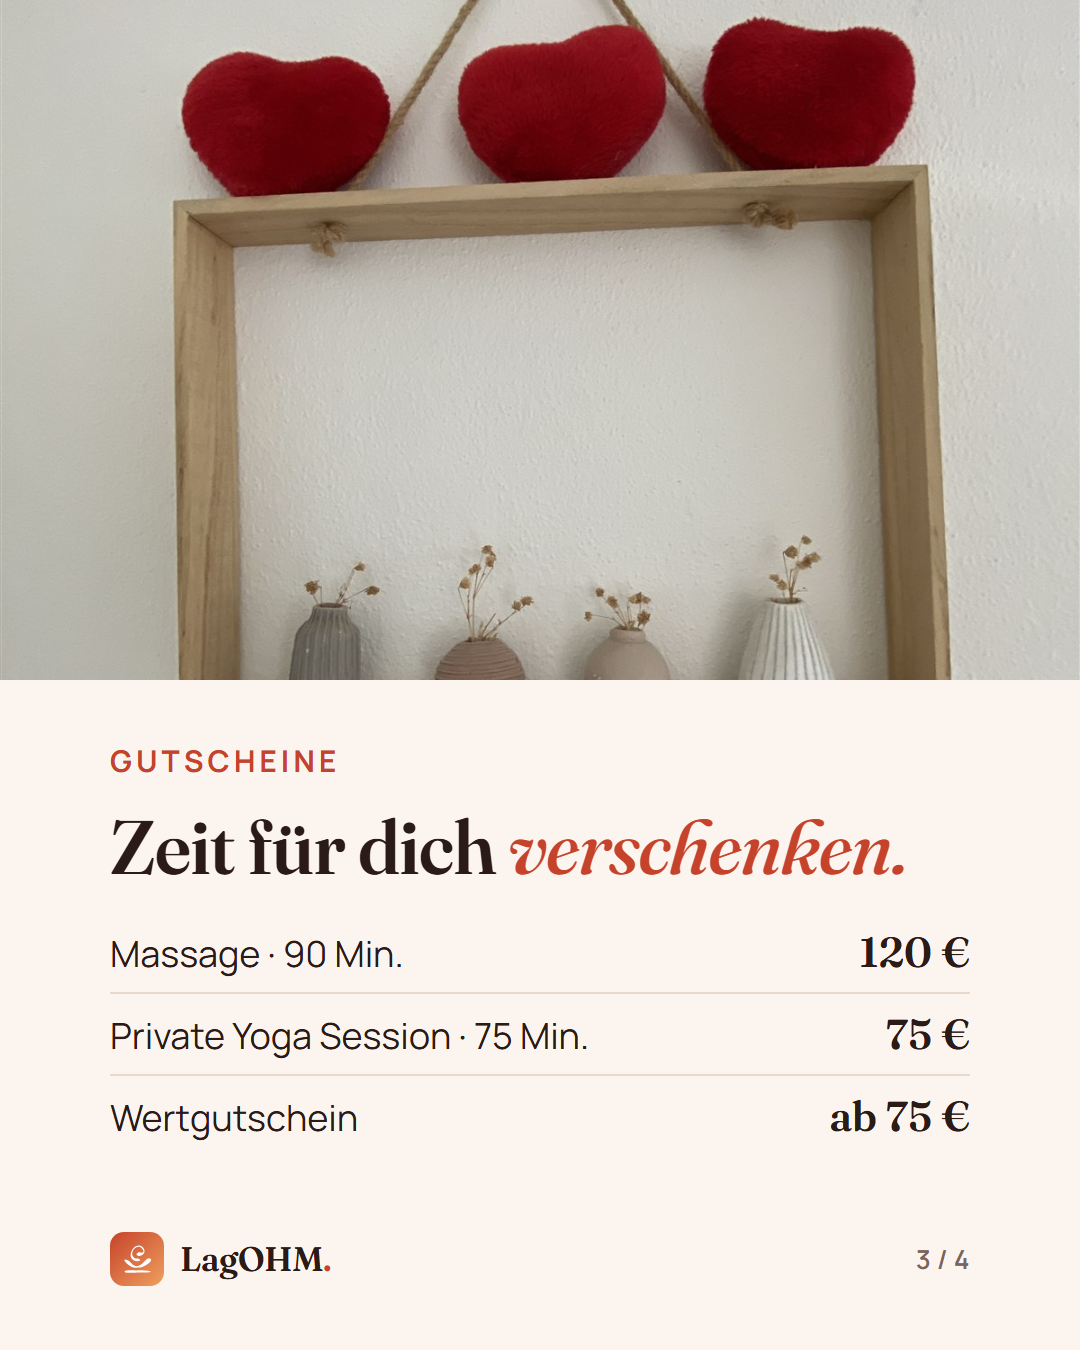
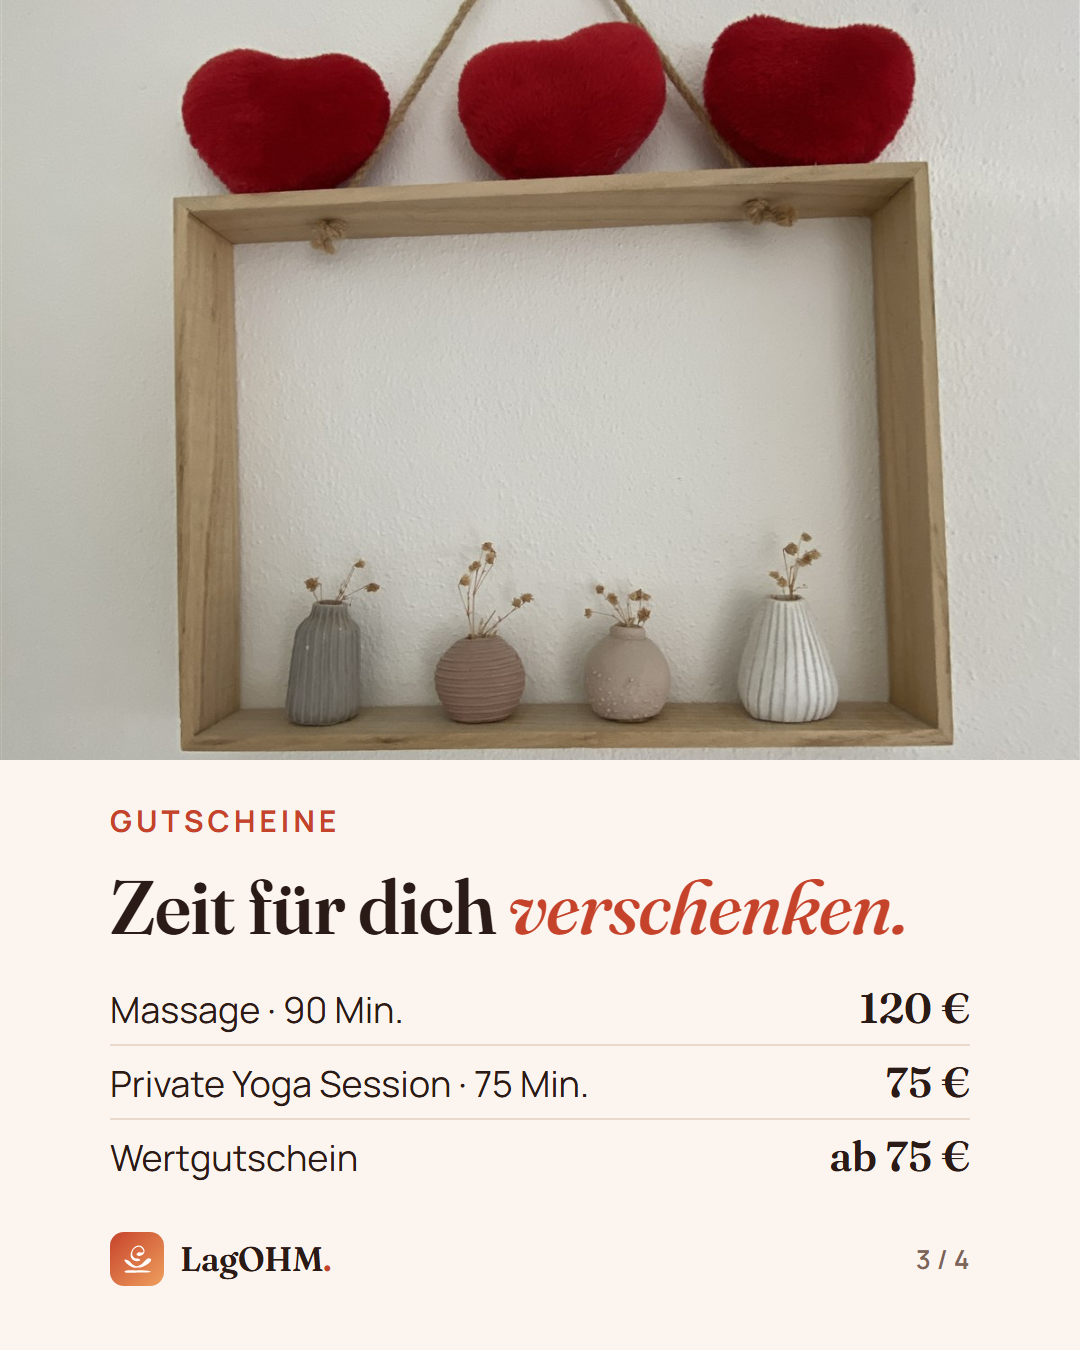
Instagram: show all hearts and the whole frame on the voucher slide
Taller photo on 09-raum slide 3, text moved up and voucher rows tightened so the list stays clear of the footer.

diff --git a/print/instagram/posts.html b/print/instagram/posts.html
@@ -122,7 +122,7 @@
 
   /* gift voucher rows */
   .rows{ display:flex; flex-direction:column; }
-  .rows div{ display:flex; justify-content:space-between; align-items:baseline; padding:14px 0; border-bottom:2px solid #E9D9CC; font-size:36px; }
+  .rows div{ display:flex; justify-content:space-between; align-items:baseline; padding:10px 0; border-bottom:2px solid #E9D9CC; font-size:36px; }
   .rows div:last-child{ border-bottom:0; }
   .rows strong{ font-family:var(--serif); font-weight:600; font-size:42px; }
 
@@ -393,8 +393,8 @@
 </section>
 
 <section class="slide photo-top" id="raum-3" data-foot="3 / 4">
-  <img class="photo" src="img/herzen.jpg" alt="" style="object-position:50% 30%">
-  <div class="text" style="top:740px">
+  <img class="photo" src="img/herzen.jpg" alt="" style="height:760px; object-position:50% 34%">
+  <div class="text" style="top:800px">
     <div class="eyebrow">Gutscheine</div>
     <h2>Zeit für dich <em>verschenken.</em></h2>
     <div class="rows">
